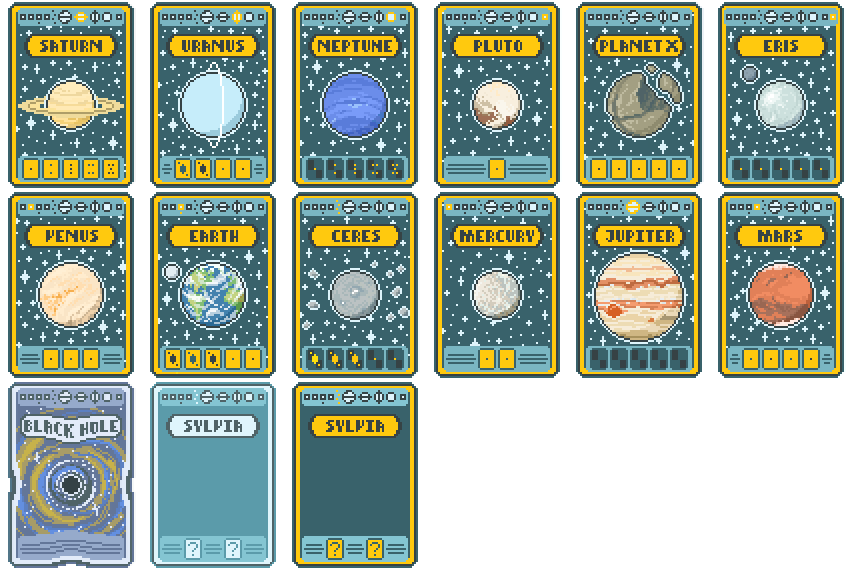
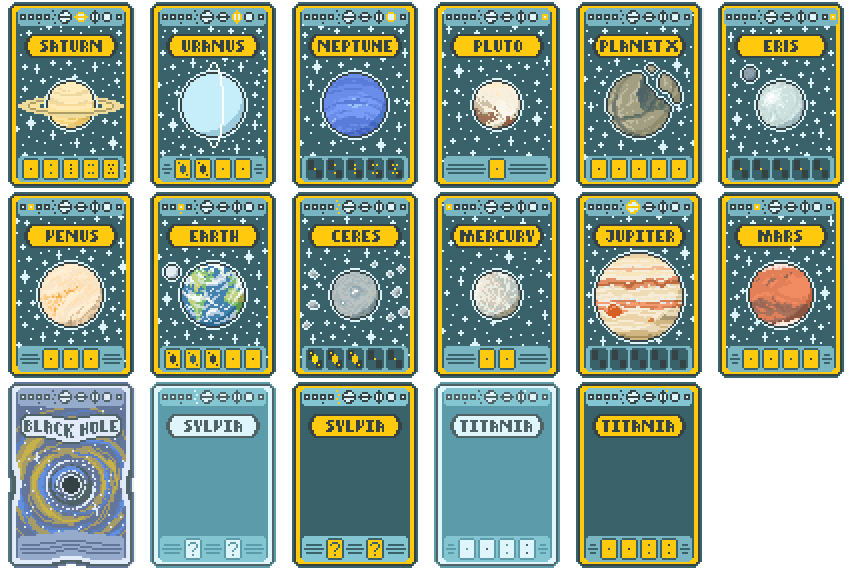
Add New hand type + its planet and astral

Changed region(s): [[0.4883, 0.6561, 0.8239, 1.0]]

diff --git a/README.md b/README.md
@@ -18,7 +18,7 @@
     <li>49+ Jokers (+9 Cross-Mod)</li>
     <li>32 Food cards (+8 Cross-Mod)</li>
     <li>17 Seals</li>
-    <li>12 Planets</li>
+    <li>16 Planets</li>
     <li>10+ Enhancements</li>
     <li>5 Decks</li>
     <li>4 Booster Packs</li>
@@ -26,8 +26,9 @@
     <li>4 Spectrals</li>
     <li>3 Editions</li>
     <li>3 Tarots</li>
-    <li>2 Sleeves (Cross-Mod)</li>
     <li>2 Boss Blind</li>
+    <li>2 Sleeves (Cross-Mod)</li>
+    <li>1 Hand Type</li>
     <li>1 Partner (Cross-Mod)</li>
 </ul>
 
